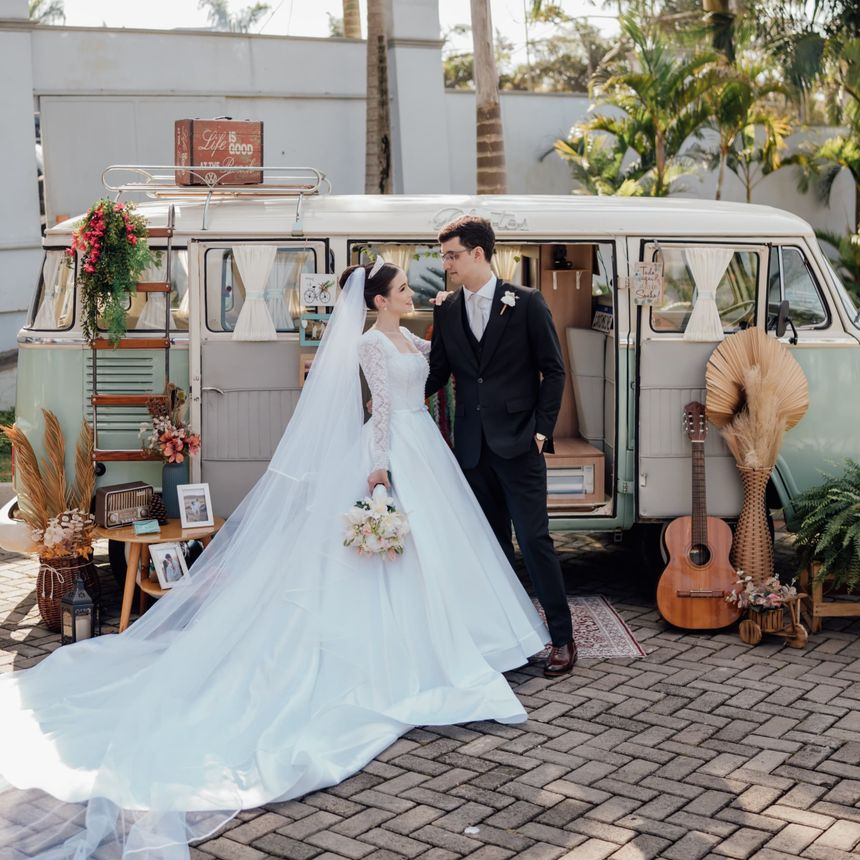
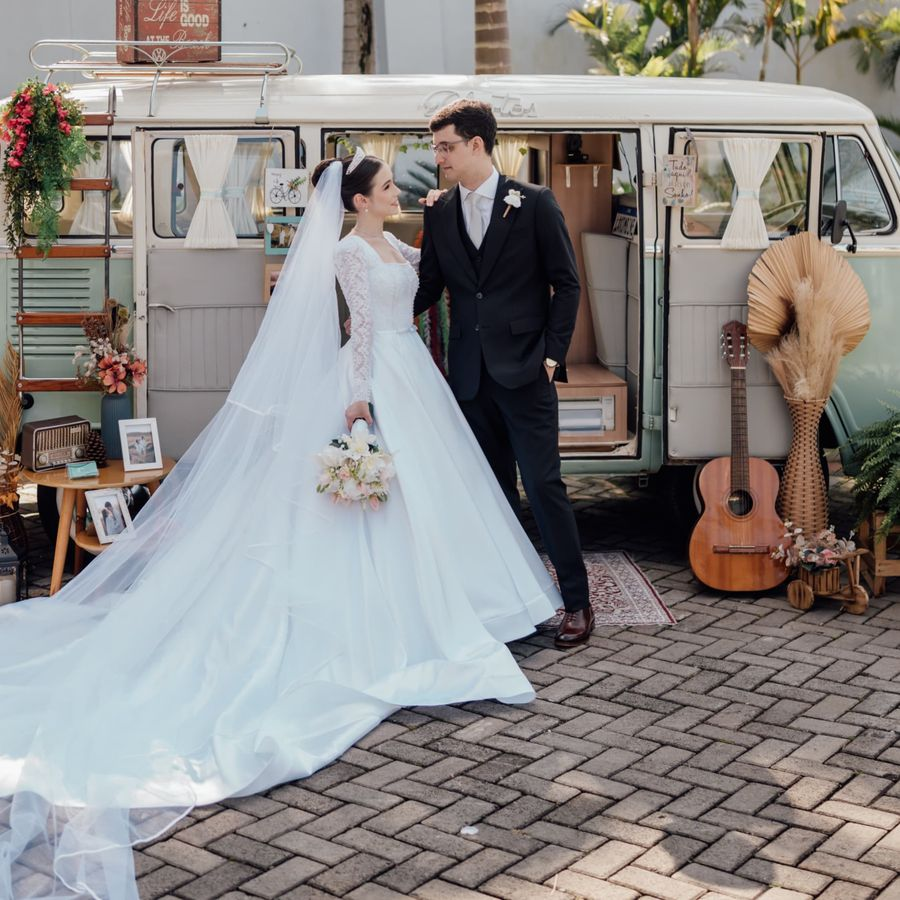
Ajusta hero para caber em uma tela, corrige loop da fita e enquadramento do casal
- Hero com min-height 100svh em desktop e mobile: so a primeira secao
  aparece ao abrir o site.
- Marquee reconstruido com 4 grupos identicos e translacao de -25%:
  elimina o salto de 13px por volta e o vao em telas largas.
- .hero__inner com flex:1 + align-content:center: a fita fica colada
  no rodape do hero em qualquer altura de tela.
- Imagens de fundo regeradas a partir de um recorte mais alto, com
  extensao esquerda desfocada sob o degrade opaco: o casal aparece
  inteiro em desktop e mobile.

Claude-Session: https://claude.ai/code/session_01UprSsZuF8Gg4C9uucyA5b1

diff --git a/index.html b/index.html
@@ -195,22 +195,47 @@
     </ul>
   </div>
 
+  <!-- Quatro grupos identicos. A animacao desloca exatamente 25% (= um grupo),
+       entao o loop fecha sem salto. Quatro, e nao dois, para a trilha continuar
+       cobrindo a tela inteira no fim da volta em monitores largos. -->
   <div class="marquee" aria-hidden="true">
     <div class="marquee__track">
-      <span>Casamentos</span><span class="sep">✷</span>
-      <span>Bodas</span><span class="sep">✷</span>
-      <span>Festas infantis</span><span class="sep">✷</span>
-      <span>15 anos</span><span class="sep">✷</span>
-      <span>Formaturas</span><span class="sep">✷</span>
-      <span>Eventos corporativos</span><span class="sep">✷</span>
-      <span>Confraternizações</span><span class="sep">✷</span>
-      <span>Casamentos</span><span class="sep">✷</span>
-      <span>Bodas</span><span class="sep">✷</span>
-      <span>Festas infantis</span><span class="sep">✷</span>
-      <span>15 anos</span><span class="sep">✷</span>
-      <span>Formaturas</span><span class="sep">✷</span>
-      <span>Eventos corporativos</span><span class="sep">✷</span>
-      <span>Confraternizações</span><span class="sep">✷</span>
+      <div class="marquee__grupo">
+        <span>Casamentos</span><span class="sep">✷</span>
+        <span>Bodas</span><span class="sep">✷</span>
+        <span>Festas infantis</span><span class="sep">✷</span>
+        <span>15 anos</span><span class="sep">✷</span>
+        <span>Formaturas</span><span class="sep">✷</span>
+        <span>Eventos corporativos</span><span class="sep">✷</span>
+        <span>Confraternizações</span><span class="sep">✷</span>
+      </div>
+      <div class="marquee__grupo">
+        <span>Casamentos</span><span class="sep">✷</span>
+        <span>Bodas</span><span class="sep">✷</span>
+        <span>Festas infantis</span><span class="sep">✷</span>
+        <span>15 anos</span><span class="sep">✷</span>
+        <span>Formaturas</span><span class="sep">✷</span>
+        <span>Eventos corporativos</span><span class="sep">✷</span>
+        <span>Confraternizações</span><span class="sep">✷</span>
+      </div>
+      <div class="marquee__grupo">
+        <span>Casamentos</span><span class="sep">✷</span>
+        <span>Bodas</span><span class="sep">✷</span>
+        <span>Festas infantis</span><span class="sep">✷</span>
+        <span>15 anos</span><span class="sep">✷</span>
+        <span>Formaturas</span><span class="sep">✷</span>
+        <span>Eventos corporativos</span><span class="sep">✷</span>
+        <span>Confraternizações</span><span class="sep">✷</span>
+      </div>
+      <div class="marquee__grupo">
+        <span>Casamentos</span><span class="sep">✷</span>
+        <span>Bodas</span><span class="sep">✷</span>
+        <span>Festas infantis</span><span class="sep">✷</span>
+        <span>15 anos</span><span class="sep">✷</span>
+        <span>Formaturas</span><span class="sep">✷</span>
+        <span>Eventos corporativos</span><span class="sep">✷</span>
+        <span>Confraternizações</span><span class="sep">✷</span>
+      </div>
     </div>
   </div>
 </section>

diff --git a/styles/main.css b/styles/main.css
@@ -311,7 +311,7 @@ ul, ol { list-style: none; padding: 0; }
   /* svh, nao vh: no celular o vh conta a barra do navegador que some ao
      rolar, e o topo estouraria a tela. Os 92% deixam uma fatia da proxima
      secao aparecendo, sinalizando que ha mais conteudo abaixo. */
-  min-height: 92svh;
+  min-height: 100svh;
   padding-top: var(--nav-h);
   padding-bottom: 0;
   background: var(--surface-3);
@@ -326,7 +326,7 @@ ul, ol { list-style: none; padding: 0; }
 .hero__foto img {
   width: 100%; height: 100%;
   object-fit: cover;
-  object-position: 10% 44%;
+  object-position: 50% 50%;
 }
 
 /* Dois degradês sobrepostos. O horizontal deixa a esquerda opaca, onde fica
@@ -363,6 +363,11 @@ ul, ol { list-style: none; padding: 0; }
 .hero__inner {
   display: grid;
   grid-template-columns: minmax(0, 1fr);
+  /* ocupa a altura que sobra e centraliza o texto nela, deixando o marquee
+     encostado no fim do topo. Sem isto o `justify-content: center` do .hero
+     centraliza o conjunto e sobra foto embaixo da fita. */
+  flex: 1;
+  align-content: center;
   padding-block: clamp(1rem, 3vh, 2.25rem) clamp(1.25rem, 4vh, 3rem);
 }
 /* Coluna mais estreita que antes (era 46rem): o titulo agora quebra em
@@ -438,9 +443,16 @@ ul, ol { list-style: none; padding: 0; }
   overflow: hidden;
 }
 .marquee__track {
-  display: flex; align-items: center; gap: 1.6rem;
+  display: flex; align-items: center;
   width: max-content;
-  animation: scroll-x 38s linear infinite;
+  animation: scroll-x 46s linear infinite;
+}
+/* O espacamento vive DENTRO do grupo (incluindo o da direita), entao todos
+   tem largura identica e o -25% cai exatamente na emenda. Com o gap no
+   track, como era antes, o -50% errava por 13px e a fita saltava a cada volta. */
+.marquee__grupo {
+  display: flex; align-items: center; gap: 1.6rem;
+  padding-right: 1.6rem;
 }
 .marquee__track span {
   font-family: var(--font-display); font-weight: 600; font-size: .82rem;
@@ -448,7 +460,7 @@ ul, ol { list-style: none; padding: 0; }
   color: var(--white); white-space: nowrap;
 }
 .marquee__track .sep { color: var(--amber); letter-spacing: 0; }
-@keyframes scroll-x { to { transform: translateX(-50%); } }
+@keyframes scroll-x { to { transform: translateX(-25%); } }
 
 /* =========================================================
    SEÇÕES GENÉRICAS
@@ -812,13 +824,13 @@ ul, ol { list-style: none; padding: 0; }
    RESPONSIVO
    ========================================================= */
 @media (max-width: 1024px) {
-  .hero { min-height: 0; }
+  .hero { min-height: 100svh; }
 
   /* A foto nao ocupa a altura toda do topo. Esticada por ~900px, so o terco
      de cima dela aparecia — palmeiras, nao os noivos. Limitando a faixa, a
      imagem inteira cabe nela e o degrade dissolve o resto no verde. */
   .hero__foto { height: 60%; }
-  .hero__foto img { object-position: 50% 46%; }
+  .hero__foto img { object-position: 50% 50%; }
 
   /* aqui o degradê é vertical: a foto fica no topo e some no verde antes do
      texto começar, senão o rosto dos noivos briga com o título */
